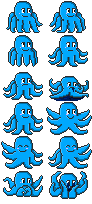
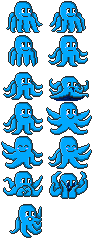
feat: new animation on wall stick / wall jump

diff --git a/scenes/characters/Character.cs b/scenes/characters/Character.cs
@@ -21,7 +21,7 @@ public class Character : KinematicBody2D
     [Signal] public delegate void Dodged(EnemyProperties.Type enemyType);
     [Signal] public delegate void Won();
 
-    public enum State { Idle, Walk, Jump, Fall, Squash, Chomp, Dance };
+    public enum State { Idle, Walk, Jump, Fall, Stick, Squash, Chomp, Dance };
 
     private Vector2 Velocity = Vector2.Zero;
     private bool Disabled = true;
@@ -216,7 +216,7 @@ public class Character : KinematicBody2D
                 return State.Jump;
             }
 
-            return State.Fall;
+            return (this.IsOnWall()) ? State.Stick : State.Fall;
         }
         
         return (Math.Abs(inputVelocity.x) > 0 && this.IsOnFloor()) ? State.Walk : State.Idle;
